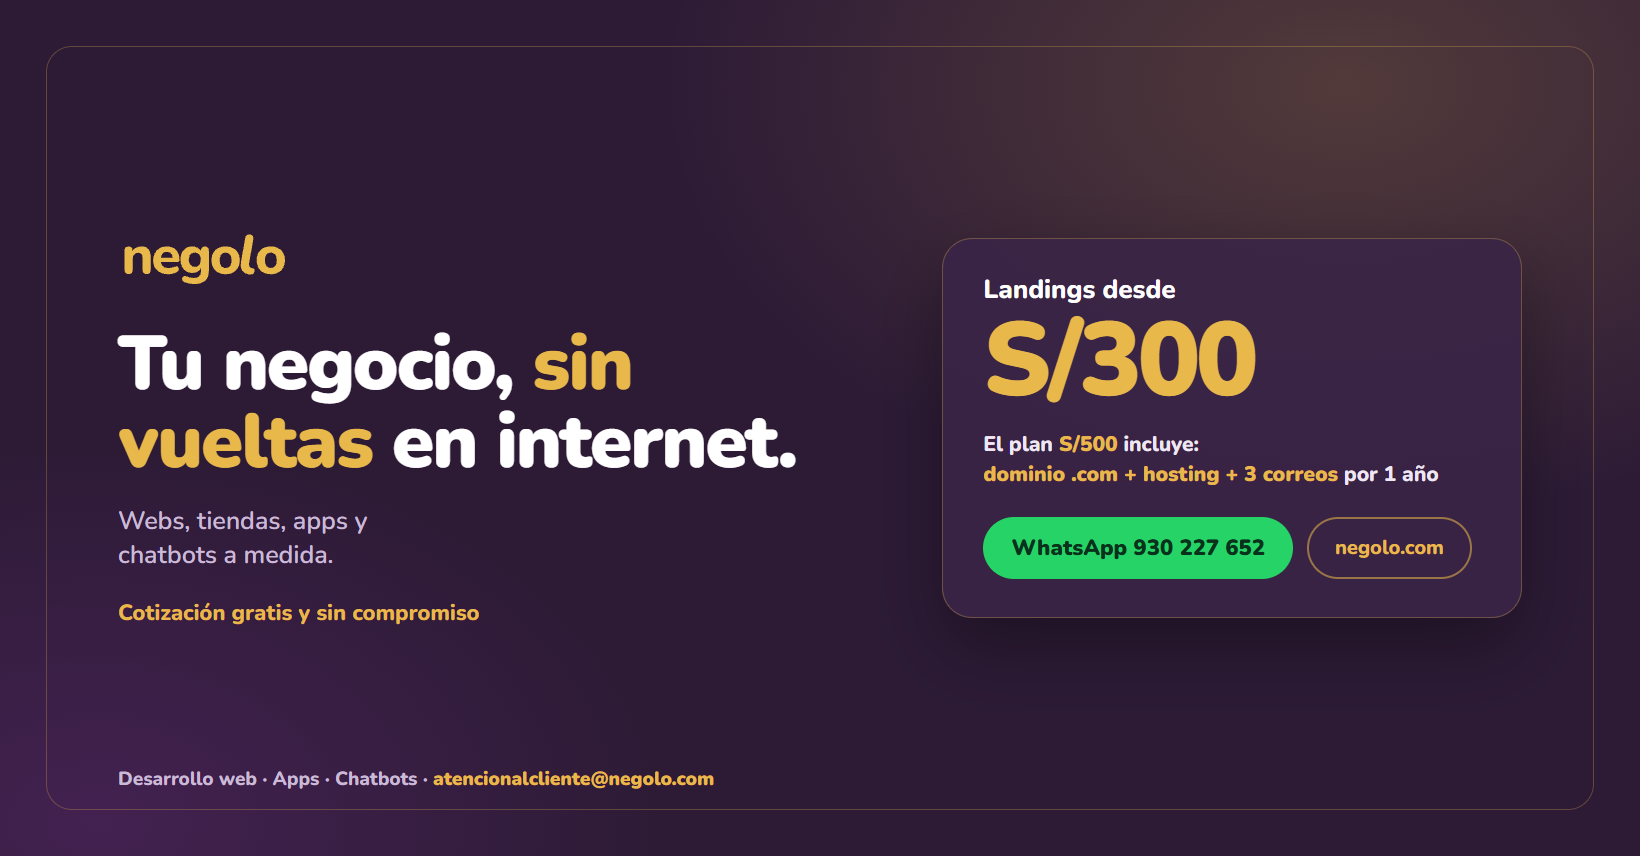
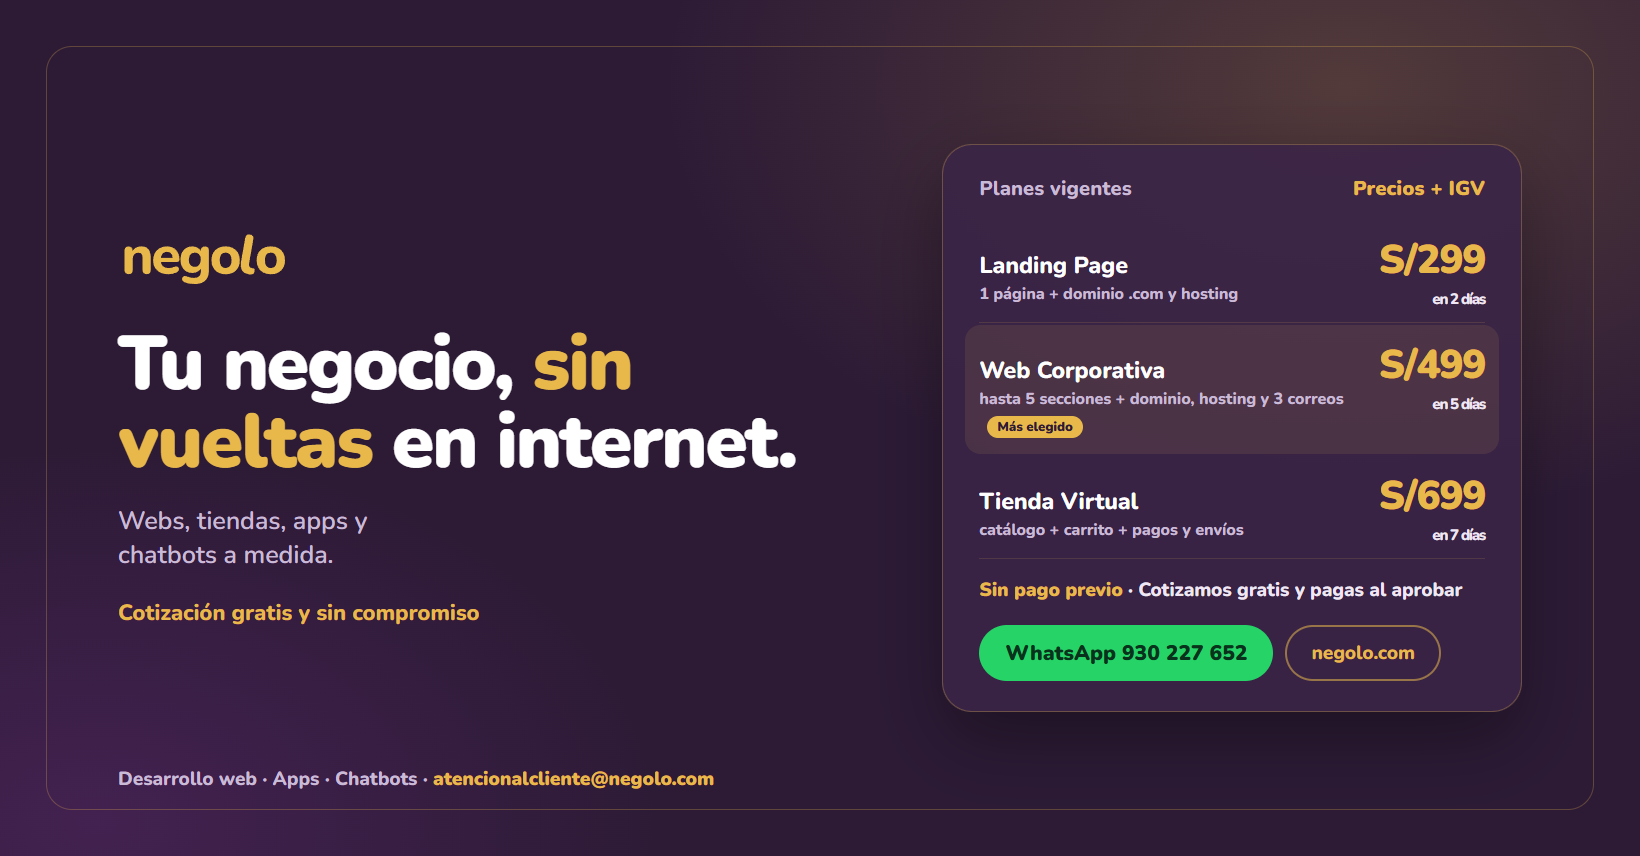
chore(marketing): planes vigentes (S/299 - S/499 - S/699, sin pago previo) en portada FB, nuevas piezas 1080x1080 y docs de campaña

diff --git a/assets/marketing/post-planes.html b/assets/marketing/post-planes.html
@@ -1,0 +1,88 @@
+<!doctype html>
+<html lang="es">
+<head>
+<meta charset="utf-8">
+<title>negolo · Planes</title>
+<link href="https://fonts.googleapis.com/css2?family=Nunito:wght@600;700;800;900&display=swap" rel="stylesheet">
+<style>
+  *{margin:0;padding:0;box-sizing:border-box}
+  html,body{width:1080px;height:1080px;overflow:hidden}
+  body{font-family:Nunito,system-ui,Arial,sans-serif;color:#fff;
+    background:
+      radial-gradient(760px 620px at 86% 4%, rgba(232,184,75,.22), transparent 60%),
+      radial-gradient(700px 640px at 2% 98%, rgba(108,45,130,.45), transparent 62%),
+      #2D1B36;
+    position:relative;padding:64px 66px;display:flex;flex-direction:column}
+  .frame{position:absolute;inset:26px;border:1px solid rgba(232,184,75,.28);border-radius:28px;pointer-events:none}
+  .top{display:flex;align-items:center;justify-content:space-between}
+  .logo{height:52px}
+  .badge{font-size:19px;font-weight:900;color:#2D1B36;background:#E8B84B;border-radius:999px;padding:9px 20px}
+  h1{margin-top:34px;font-size:70px;line-height:1.02;font-weight:900;letter-spacing:-.02em;text-transform:uppercase}
+  h1 span{color:#E8B84B}
+  .lead{margin-top:14px;font-size:26px;font-weight:700;color:#C9BBD6}
+  .plans{margin-top:34px;display:flex;flex-direction:column;gap:18px;flex:1}
+  .plan{position:relative;display:flex;align-items:center;justify-content:space-between;gap:20px;
+    background:rgba(58,36,71,.86);border:1px solid rgba(232,184,75,.28);border-radius:26px;padding:24px 30px}
+  .plan.hot{border-color:#E8B84B;background:linear-gradient(90deg, rgba(232,184,75,.16), rgba(58,36,71,.9))}
+  .pinfo{display:flex;flex-direction:column;gap:6px}
+  .pname{font-size:34px;font-weight:900}
+  .pdesc{font-size:21px;font-weight:700;color:#C9BBD6}
+  .pdiff{position:absolute;top:-13px;left:30px;font-size:16px;font-weight:900;color:#2D1B36;background:#E8B84B;border-radius:999px;padding:3px 14px}
+  .pright{text-align:right;display:flex;flex-direction:column;gap:2px}
+  .pprice{font-size:58px;font-weight:900;letter-spacing:-.03em;color:#E8B84B;line-height:1}
+  .pprice small{font-size:22px;font-weight:800;color:#C9BBD6;letter-spacing:0}
+  .pdays{font-size:21px;font-weight:800;color:#fff}
+  .band{margin-top:26px;display:flex;align-items:center;justify-content:space-between;gap:18px;
+    background:rgba(58,36,71,.86);border:1px solid rgba(232,184,75,.3);border-radius:24px;padding:22px 30px}
+  .bandtxt{font-size:27px;font-weight:900;color:#fff}
+  .bandtxt b{color:#E8B84B}
+  .wa{display:flex;align-items:center;gap:12px;background:#25D366;color:#08321b;font-weight:900;font-size:26px;padding:16px 28px;border-radius:999px;white-space:nowrap}
+</style>
+</head>
+<body>
+  <div class="frame"></div>
+  <div class="top">
+    <img class="logo" src="../brand/logo-full-dark.svg" alt="negolo">
+    <span class="badge">Cotización gratis</span>
+  </div>
+  <h1>Páginas web <span>para tu negocio</span></h1>
+  <p class="lead">Elige tu plan, entrega en días · Precios + IGV</p>
+  <div class="plans">
+    <div class="plan">
+      <div class="pinfo">
+        <span class="pname">Landing Page</span>
+        <span class="pdesc">1 página + dominio .com + hosting</span>
+      </div>
+      <div class="pright">
+        <span class="pprice">S/299<small>+ IGV</small></span>
+        <span class="pdays">Entrega en 2 días</span>
+      </div>
+    </div>
+    <div class="plan hot">
+      <span class="pdiff">EL MÁS ELEGIDO</span>
+      <div class="pinfo">
+        <span class="pname">Web Corporativa</span>
+        <span class="pdesc">Hasta 5 secciones + dominio, hosting y 3 correos</span>
+      </div>
+      <div class="pright">
+        <span class="pprice">S/499<small>+ IGV</small></span>
+        <span class="pdays">Entrega en 5 días</span>
+      </div>
+    </div>
+    <div class="plan">
+      <div class="pinfo">
+        <span class="pname">Tienda Virtual</span>
+        <span class="pdesc">Catálogo + carrito + pagos y envíos</span>
+      </div>
+      <div class="pright">
+        <span class="pprice">S/699<small>+ IGV</small></span>
+        <span class="pdays">Entrega en 7 días</span>
+      </div>
+    </div>
+  </div>
+  <div class="band">
+    <span class="bandtxt"><b>Sin pago previo</b> · Cotización gratis</span>
+    <span class="wa">WhatsApp 930 227 652</span>
+  </div>
+</body>
+</html>

diff --git a/assets/marketing/portada-fb.html b/assets/marketing/portada-fb.html
@@ -21,14 +21,22 @@
   p.sub{margin-top:22px;font-size:25px;font-weight:600;color:#C9BBD6;max-width:20ch}
   .tagline{margin-top:26px;font-size:22px;font-weight:700;color:#E8B84B}
   /* right card */
-  .card{background:rgba(58,36,71,.86);border:1px solid rgba(232,184,75,.3);border-radius:30px;padding:38px 40px;box-shadow:0 30px 70px rgba(0,0,0,.35)}
-  .price{font-size:104px;font-weight:900;letter-spacing:-.04em;line-height:1;color:#E8B84B}
-  .price small{display:block;font-size:26px;font-weight:800;color:#fff;letter-spacing:0;margin-bottom:6px}
-  .inc{margin-top:16px;font-size:21px;font-weight:700;color:#EFE7F3;line-height:1.45}
+  .card{background:rgba(58,36,71,.86);border:1px solid rgba(232,184,75,.3);border-radius:30px;padding:30px 36px;box-shadow:0 30px 70px rgba(0,0,0,.35)}
+  .chead{display:flex;justify-content:space-between;align-items:baseline;font-size:20px;font-weight:800;color:#C9BBD6;letter-spacing:.01em;margin-bottom:18px}
+  .chead b{color:#E8B84B}
+  .plan{display:flex;align-items:baseline;justify-content:space-between;gap:14px;padding:13px 0;border-bottom:1px solid rgba(232,184,75,.14)}
+  .plan:last-of-type{border-bottom:0}
+  .pname{font-size:23px;font-weight:800;color:#fff}
+  .pname i{display:block;font-style:normal;font-size:16px;font-weight:700;color:#C9BBD6;margin-top:2px}
+  .pprice{font-size:40px;font-weight:900;letter-spacing:-.03em;color:#E8B84B;white-space:nowrap}
+  .pprice small{display:block;font-size:15px;font-weight:800;color:#EFE7F3;text-align:right;margin-top:2px}
+  .plan.hot{background:rgba(232,184,75,.10);border-radius:16px;padding:13px 14px;margin:2px -14px;border-bottom:0}
+  .plan.hot .pname::after{content:"Más elegido";display:inline-block;margin-left:8px;font-size:13px;font-weight:900;color:#2D1B36;background:#E8B84B;border-radius:999px;padding:2px 10px;vertical-align:middle}
+  .inc{margin-top:18px;font-size:19px;font-weight:700;color:#EFE7F3;line-height:1.4}
   .inc b{color:#E8B84B}
-  .btns{display:flex;gap:14px;margin-top:28px;flex-wrap:wrap}
-  .pill{background:#25D366;color:#08321b;font-weight:900;font-size:22px;padding:16px 28px;border-radius:999px}
-  .pill2{border:2px solid rgba(232,184,75,.55);color:#E8B84B;font-weight:800;font-size:20px;padding:15px 26px;border-radius:999px}
+  .btns{display:flex;gap:12px;margin-top:22px;flex-wrap:wrap}
+  .pill{background:#25D366;color:#08321b;font-weight:900;font-size:21px;padding:14px 26px;border-radius:999px}
+  .pill2{border:2px solid rgba(232,184,75,.55);color:#E8B84B;font-weight:800;font-size:19px;padding:13px 24px;border-radius:999px}
   .foot{position:absolute;left:118px;bottom:64px;font-size:19px;font-weight:700;color:#C9BBD6}
   .foot b{color:#E8B84B}
 </style>
@@ -43,8 +51,20 @@
       <div class="tagline">Cotización gratis y sin compromiso</div>
     </div>
     <div class="card">
-      <div class="price"><small>Landings desde</small>S/300</div>
-      <div class="inc">El plan <b>S/500</b> incluye:<br><b>dominio .com + hosting + 3 correos</b> por 1 año</div>
+      <div class="chead"><span>Planes vigentes</span><b>Precios + IGV</b></div>
+      <div class="plan">
+        <span class="pname">Landing Page<i>1 página + dominio .com y hosting</i></span>
+        <span class="pprice">S/299<small>en 2 días</small></span>
+      </div>
+      <div class="plan hot">
+        <span class="pname">Web Corporativa<i>hasta 5 secciones + dominio, hosting y 3 correos</i></span>
+        <span class="pprice">S/499<small>en 5 días</small></span>
+      </div>
+      <div class="plan">
+        <span class="pname">Tienda Virtual<i>catálogo + carrito + pagos y envíos</i></span>
+        <span class="pprice">S/699<small>en 7 días</small></span>
+      </div>
+      <div class="inc"><b>Sin pago previo</b> · Cotizamos gratis y pagas al aprobar</div>
       <div class="btns"><span class="pill">WhatsApp 930 227 652</span><span class="pill2">negolo.com</span></div>
     </div>
   </div>

diff --git a/assets/marketing/post-sinpago.html b/assets/marketing/post-sinpago.html
@@ -1,0 +1,55 @@
+<!doctype html>
+<html lang="es">
+<head>
+<meta charset="utf-8">
+<title>negolo · Sin pago previo</title>
+<link href="https://fonts.googleapis.com/css2?family=Nunito:wght@600;700;800;900&display=swap" rel="stylesheet">
+<style>
+  *{margin:0;padding:0;box-sizing:border-box}
+  html,body{width:1080px;height:1080px;overflow:hidden}
+  body{font-family:Nunito,system-ui,Arial,sans-serif;color:#fff;
+    background:
+      radial-gradient(760px 620px at 88% 6%, rgba(232,184,75,.24), transparent 60%),
+      radial-gradient(700px 640px at 0% 100%, rgba(108,45,130,.45), transparent 62%),
+      #2D1B36;
+    position:relative;padding:66px;display:flex;flex-direction:column}
+  .frame{position:absolute;inset:26px;border:1px solid rgba(232,184,75,.28);border-radius:28px;pointer-events:none}
+  .top{display:flex;align-items:center;justify-content:space-between}
+  .logo{height:52px}
+  .badge{font-size:20px;font-weight:900;color:#2D1B36;background:#E8B84B;border-radius:999px;padding:10px 22px}
+  h1{margin-top:40px;font-size:88px;line-height:1;font-weight:900;letter-spacing:-.03em}
+  h1 span{color:#E8B84B}
+  .lead{margin-top:20px;font-size:29px;font-weight:700;color:#C9BBD6;max-width:24ch}
+  .steps{margin-top:44px;display:flex;flex-direction:column;gap:20px;flex:1;justify-content:center}
+  .step{display:flex;align-items:center;gap:26px}
+  .num{flex:0 0 78px;height:78px;border-radius:50%;background:#E8B84B;color:#2D1B36;
+    font-size:38px;font-weight:900;display:flex;align-items:center;justify-content:center}
+  .stxt{font-size:37px;font-weight:800;line-height:1.15}
+  .stxt small{display:block;font-size:22px;font-weight:700;color:#C9BBD6;margin-top:3px}
+  .band{margin-top:34px;display:flex;align-items:center;justify-content:space-between;gap:18px;
+    background:rgba(58,36,71,.86);border:1px solid rgba(232,184,75,.3);border-radius:24px;padding:24px 30px}
+  .bandtxt{font-size:25px;font-weight:800;color:#C9BBD6}
+  .bandtxt b{display:block;font-size:30px;font-weight:900;color:#E8B84B}
+  .wa{display:flex;align-items:center;gap:12px;background:#25D366;color:#08321b;font-weight:900;font-size:27px;padding:17px 30px;border-radius:999px;white-space:nowrap}
+</style>
+</head>
+<body>
+  <div class="frame"></div>
+  <div class="top">
+    <img class="logo" src="../brand/logo-full-dark.svg" alt="negolo">
+    <span class="badge">Cotización gratis</span>
+  </div>
+  <h1>No pagas <span>hasta aprobar</span> tu web</h1>
+  <p class="lead">Así de simple es trabajar con nosotros:</p>
+  <div class="steps">
+    <div class="step"><span class="num">1</span><span class="stxt">Nos cuentas tu idea<small>Por WhatsApp, en minutos.</small></span></div>
+    <div class="step"><span class="num">2</span><span class="stxt">Te cotizamos gratis<small>Sin compromiso y sin costo.</small></span></div>
+    <div class="step"><span class="num">3</span><span class="stxt">Diseñamos y corriges<small>Ves avances y pides cambios.</small></span></div>
+    <div class="step"><span class="num">4</span><span class="stxt">Pagas y publicamos<small>Recién ahí pagas tu web.</small></span></div>
+  </div>
+  <div class="band">
+    <span class="bandtxt">Landings desde<b>S/299 + IGV</b></span>
+    <span class="wa">WhatsApp 930 227 652</span>
+  </div>
+</body>
+</html>

diff --git a/MARKETING.md b/MARKETING.md
@@ -15,24 +15,25 @@
 | Botón CTA | **WhatsApp** → wa.me/51930227652 |
 | Avatar | `assets/brand/icon-1024.png` (ícono "olo" sobre ciruela) |
 | Portada | `assets/marketing/portada-fb.png` (1640×856) |
+| Posts 1080×1080 | `assets/marketing/post-planes.png` · `assets/marketing/post-sinpago.png` |
 
 **Descripción (copiar tal cual):**
-> Desarrollo web, apps y chatbots para tu negocio. Landings desde S/300 con dominio .com, hosting y 3 correos incluidos. Diseño a medida, entrega rápida y precios claros. Cotización gratis y sin compromiso 👉 WhatsApp 930 227 652
+> Desarrollo web, apps y chatbots para tu negocio. Landing Page S/299 (2 días), Web Corporativa S/499 (5 días) y Tienda Virtual S/699 (7 días). Sin pago previo: págas recién cuando apruebas tu web. Precios + IGV. Cotización gratis y sin compromiso 👉 WhatsApp 930 227 652
 
 ---
 
 ## 2. Los 10 posts iniciales (copy listo)
 
-1. **Lanzamiento** — "Nace negolo 🚀 Webs, apps y chatbots para negocios que quieren crecer en internet. Cotización gratis y sin compromiso. Landings desde S/300 con dominio, hosting y correos."
-2. **Oferta S/500** — "Tu web lista este mes: landing + dominio .com + hosting + 3 correos por 1 año = S/500. Sin costos sorpresa."
+1. **Lanzamiento** — "Nace negolo 🚀 Webs, apps y chatbots para negocios que quieren crecer en internet. Landing Page desde S/299 con dominio .com y hosting. Cotización gratis y sin pago previo."
+2. **Oferta Web Corporativa S/499** — "Tu web lista en 5 días: hasta 5 secciones + dominio .com + hosting + 3 correos por 1 año = S/499 (+ IGV). Sin costos sorpresa."
 3. **Antes / Después** — carrusel del portafolio (Valencia Visual) con la frase "¿Tu web actual espanta clientes?"
-4. **Cuánto cuesta una web** — video corto explicando por qué cobramos desde S/300 y qué incluye cada plan.
+4. **Cuánto cuesta una web** — video corto explicando los planes vigentes: S/299 landing (2 días), S/499 corporativa (5 días) y S/699 tienda (7 días).
 5. **Casos: Valencia Visual** — "Sitio corporativo + configurador 3D de stands con marca diseñada desde cero. Hecho 100% con código."
-6. **Chatbots** — "Responde de noche, filtra consultas y agenda citas solo. Tu negocio atendiendo mientras duermes."
+6. **Chatbots** — "Responde de noche, filtra consultas y agenda citas solo. Tu negocio atendiendo mientras duermes. A medida, cotización en el día."
 7. **Error común** — "3 errores que hacen que tu web no venda" (tip educativo, sin vender).
-8. **Precio .pe** — "¿Necesitas .pe? Súmalo por +S/199 (incluye todo el año)."
+8. **Precio .pe y mantenimiento** — "¿Necesitas dominio .pe? Súmalo por +S/199 (todo el año). Mantenimiento opcional por S/150/año."
 9. **Testimonio / prueba** — captura real de un demo del portafolio + "todos nuestros proyectos tienen demo navegable".
-10. **CTA fuerte** — "Cuéntanos tu idea por WhatsApp y en minutos te decimos cuánto cuesta. Cotización gratis, negociable y sin miedo."
+10. **CTA fuerte** — "Cuéntanos tu idea por WhatsApp y en el día te cotizamos gratis. Sin pago previo: diseñas, corriges y recién ahí pagas."
 
 **3 Reels (guiones de 20-30 s)**
 - R1: scroll rápido por 3 demos del portafolio + texto "Esto es lo que podemos hacer por tu negocio".
@@ -53,11 +54,13 @@
 **Calificación interna:** negocio · si tiene web · urgencia · presupuesto · si decide él o alguien más.
 
 **Propuesta (3 opciones siempre):**
-- S/300 Básico (landing, sin dominio/correo/hosting)
-- **S/500 Landing Pro** (dominio .com + hosting + 3 correos por 1 año) ← recomendar
-- S/900 corporativa / S/1,500 tienda-app-chatbot / cotización personalizada
+- S/299 **Landing Page** (1 página + dominio .com + hosting, entrega en 2 días)
+- **S/499 Web Corporativa** (hasta 5 secciones + dominio .com + hosting + 3 correos por 1 año, entrega en 5 días) ← recomendar (el más elegido)
+- S/699 **Tienda Virtual** (catálogo + carrito + pagos y envíos, entrega en 7 días)
 
-**Cierres:** "¿Empezamos hoy? Con S/250 aseguramos el dominio y arrancamos el diseño." · seguimiento a las 24 h y 48 h.
+Todos los precios son **+ IGV**. Extras: dominio **.pe + S/199**, **mantenimiento S/150/año**. Para chatbots, apps, ERP/CRM o cualquier sistema a medida: **cotización en el día**.
+
+**Cierres:** "Empezamos **sin pago previo**: nos cuentas tu idea, te cotizamos gratis, diseñamos tu web, la corriges y recién ahí pagas." · seguimiento a las 24 h y 48 h.
 
 ---
 
@@ -65,16 +68,16 @@
 
 **Semana 1-2 (orgánico, inversión S/0)**
 - Publicar los 10 posts (1 cada 2 días) + 1 reel por semana.
-- Marketplace: 2 avisos (Landing S/300 y Landing Pro S/500) con CTA al chat. Nunca poner teléfono/correo/URL en la imagen ni en la descripción.
+- Marketplace: 2 avisos (Landing Page S/299 y Web Corporativa S/499) con CTA al chat. Nunca poner teléfono/correo/URL en la imagen ni en la descripción.
 - Grupos de Facebook: emprendedores Perú / Lima, negocios locales, ferias y emprendimiento. 1 aporte útil por día + comentario suave; no spam.
 
 **Semana 2+ (pago, empezar S/15/día)**
 - Objetivo: **Mensajes (Click to WhatsApp)** → directo a 51930227652.
 - Público: Lima + Callao, 24-55, intereses: pequeña empresa, emprendimiento, marketing digital, gastronomía, belleza.
-- 3 creativos A/B (oferta S/500, antes/después, "cotización gratis").
+- 3 creativos A/B (post de los 3 planes con "sin pago previo", antes/después, "cotización gratis").
 - Escalar solo si **costo por mensaje < S/8**; apagar lo que no rinda.
 
-**KPIs semanales:** mensajes recibidos · costo por mensaje · % que pide precio · cierres · ticket promedio (meta S/500+).
+**KPIs semanales:** mensajes recibidos · costo por mensaje · % que pide precio · cierres · ticket promedio (meta S/499+).
 
 ---
 
@@ -97,7 +100,7 @@
 - [x] 15 proyectos del portafolio con demo navegable — `negolo-web/portafolio/`
 - [x] Marca aplicada (oro/ciruela/lavanda, Nunito, logo oficial)
 - [x] Documento de marketing, posts, guiones y plan de anuncios
-- [ ] Portada FB dedicada (en generación)
+- [x] Portada FB dedicada y piezas gráficas (`assets/marketing/portada-fb.png`, `post-planes.png`, `post-sinpago.png`)
 - [ ] Página de Facebook `negolo` creada
 - [ ] Posts publicados (pendiente de tu aprobación)
 - [ ] Deploy en Vercel + DNS en Namecheap (al final, como acordamos)

diff --git a/ADS-META.md b/ADS-META.md
@@ -2,28 +2,27 @@
 
 ## 1. La publicación que vamos a usar
 
-**Publicación base: “Landing Pro — S/500 todo incluido”.**
+**Publicación base: “Los 3 planes — S/299 · S/499 · S/699, sin pago previo”.**
 
 Por qué esa y no otra:
-- Es la que **comunica el valor completo en 2 segundos**: dominio .com + hosting + 3 correos + soporte por 1 año. La de S/300 obliga a explicar lo que NO incluye (más fricción).
-- **Ancla el precio**: quien no pueda con S/500 pedirá la de S/300 o una cotización personalizada → igual gana la conversación.
+- **Comunica el valor completo en 2 segundos**: precios claros y entrega en días (Landing 2 días · Corporativa 5 días · Tienda 7 días), todo + IGV.
+- **El “sin pago previo” quita la fricción**: el mensaje central (págas recién cuando apruebas tu web) es lo que más conversaciones genera.
 - Se puede **promocionar directamente desde la Page** (“Promocionar publicación”), que es el camino más simple y barato para empezar.
 
-**Creativo recomendado**: `assets/marketing/portada-fb.png` (el mismo diseño de la portada) o un creativo hermano con la misma estructura:
-- Titular: **Tu negocio, sin vueltas en internet**
-- Oferta grande: **Landing Pro S/500** · “dominio .com + hosting + 3 correos incluidos (1 año)”
-- Prueba: **15+ proyectos entregados · respuesta en minutos**
-- CTA visual: **Cotización gratis**
+**Creativos (rotación A/B):**
+- **A** — `assets/marketing/post-planes.png`: los 3 planes con precio y entrega en tarjetas + banda “Sin pago previo · Cotización gratis”.
+- **B** — `assets/marketing/post-sinpago.png`: mensaje “No pagas hasta aprobar tu web” con los 4 pasos y el badge “Landings desde S/299 · + IGV”.
+- Estructura recomendada (3 planes y “sin pago previo”): titular **“Páginas web para tu negocio”**, prueba **“Web lista en días, no en meses · 15+ proyectos entregados”** y CTA visual **“Cotización gratis”**.
 
 **Copy de la publicación (pegar tal cual):**
-> ¿Tu negocio todavía no tiene web? Esta semana la dejamos lista.
-> Landing Pro **S/500** con **dominio .com + hosting + 3 correos por 1 año**.
-> Diseño a medida, adaptado a celular y con botón de WhatsApp para que te escriban.
-> También hay plan básico desde S/300 y cotización personalizada: cuéntanos tu proyecto y lo ajustamos a tu presupuesto.
-> Cotización gratis, sin compromiso y negociable.
+> ¿Tu negocio todavía no tiene web? La dejamos lista en días.
+> Landing Page **S/299** (2 días) · Web Corporativa **S/499** (5 días) · Tienda Virtual **S/699** (7 días). Precios **+ IGV**.
+> Con dominio .com, hosting y diseño a medida adaptado a celular, con botón de WhatsApp para que te escriban.
+> Y lo mejor: **sin pago previo**. Nos cuentas tu idea, te cotizamos gratis, diseñamos tu web, la corriges y recién ahí pagas.
+> Chatbots, apps y sistemas a medida: cotización en el día.
 > Escríbenos por WhatsApp: 930 227 652
 
-**Segundo anuncio (A/B, mismo conjunto)**: carrusel del portafolio (Valencia Visual → Convalt → ClubMap) con el copy: *“Esto es lo que podemos hacer por tu negocio. Landings desde S/300. Cotización gratis por WhatsApp.”*
+**Segundo anuncio (A/B, mismo conjunto)**: carrusel del portafolio (Valencia Visual → Convalt → ClubMap) con el copy: *“Esto es lo que podemos hacer por tu negocio. Páginas web desde S/299, sin pago previo. Cotización gratis por WhatsApp.”*
 
 ---
 
@@ -31,7 +30,7 @@ Por qué esa y no otra:
 
 | Campo | Valor |
 |---|---|
-| Objetivo | **Interacción** (Engagement) |
+| Objetivo | **Mensajes (Click to WhatsApp)** |
 | Ubicación de conversión | **Mensajes** → **WhatsApp** |
 | Cuenta de WhatsApp | WhatsApp Business **+51 930 227 652** (vinculada a la Page Negolo) |
 | Mensaje prellenado | “Hola, vi su anuncio y quiero cotizar mi página web” |
@@ -60,7 +59,7 @@ Automáticas (Advantage+ placements). Si hay que elegir: Facebook Feed, Instagra
 | 4 | Revisar: conversaciones iniciadas y **costo por conversación**. Apagar solo si un anuncio tiene CTR < 0,6% y 0 conversaciones. |
 | 7 | Comparar los 2 anuncios: pausar el peor, subir el presupuesto del ganador a **S/6–7** (máx. +20%/día). |
 | 10 | Si el costo por conversación ≤ S/5 y hay cierres: subir a **S/10/día** y añadir un tercer creativo (caso real del portafolio). |
-| 14 | Balance: si hay 1 cierre de S/500, la campaña ya es rentable (S/70 invertidos). Renovar creativos cada 2 semanas para no saturar. |
+| 14 | Balance: si hay 1 cierre de S/499 o S/699, la campaña ya es rentable (S/70 invertidos). Renovar creativos cada 2 semanas para no saturar. |
 
 **Esperado con S/5/día (realista, sin prometer):** ~400–800 impresiones/día, 5–15 clics/día y **2–6 conversaciones por semana** en las primeras semanas. El costo por conversación suele arrancar alto (S/8–15) y bajar al estabilizarse (S/3–7).
 
@@ -70,8 +69,8 @@ Automáticas (Advantage+ placements). Si hay que elegir: Facebook Feed, Instagra
 1. **Responder en menos de 5 minutos**: es el factor que más sube el cierre (y Meta premia la respuesta rápida con mejor entrega).
 2. **Nunca poner teléfono, correo ni URL en la imagen del anuncio** (Meta penaliza contacto fuera de su plataforma en el creativo). El contacto va en el botón de WhatsApp.
 3. **Sin promesas de resultados** (“más clientes garantizados”): mejora la aprobación y evita rechazos.
-4. Un solo mensaje de bienvenida con 3 preguntas de calificación (negocio, si tiene web, urgencia) y enviar los 3 paquetes + enlace al portafolio.
-5. Seguimiento a las 24 h y 48 h si no responde. Cerrar con “50% para iniciar, 50% contra entrega”.
+4. Un solo mensaje de bienvenida con 3 preguntas de calificación (negocio, si tiene web, urgencia) y enviar los 3 planes vigentes (S/299 · S/499 · S/699, + IGV) + enlace al portafolio.
+5. Seguimiento a las 24 h y 48 h si no responde. Cerrar con **“sin pago previo: págas recién cuando apruebas tu web”**.
 
 ## 5. Medición semanal
 - Conversaciones iniciadas · **costo por conversación** · % que pide precio · cierres · ticket promedio.
